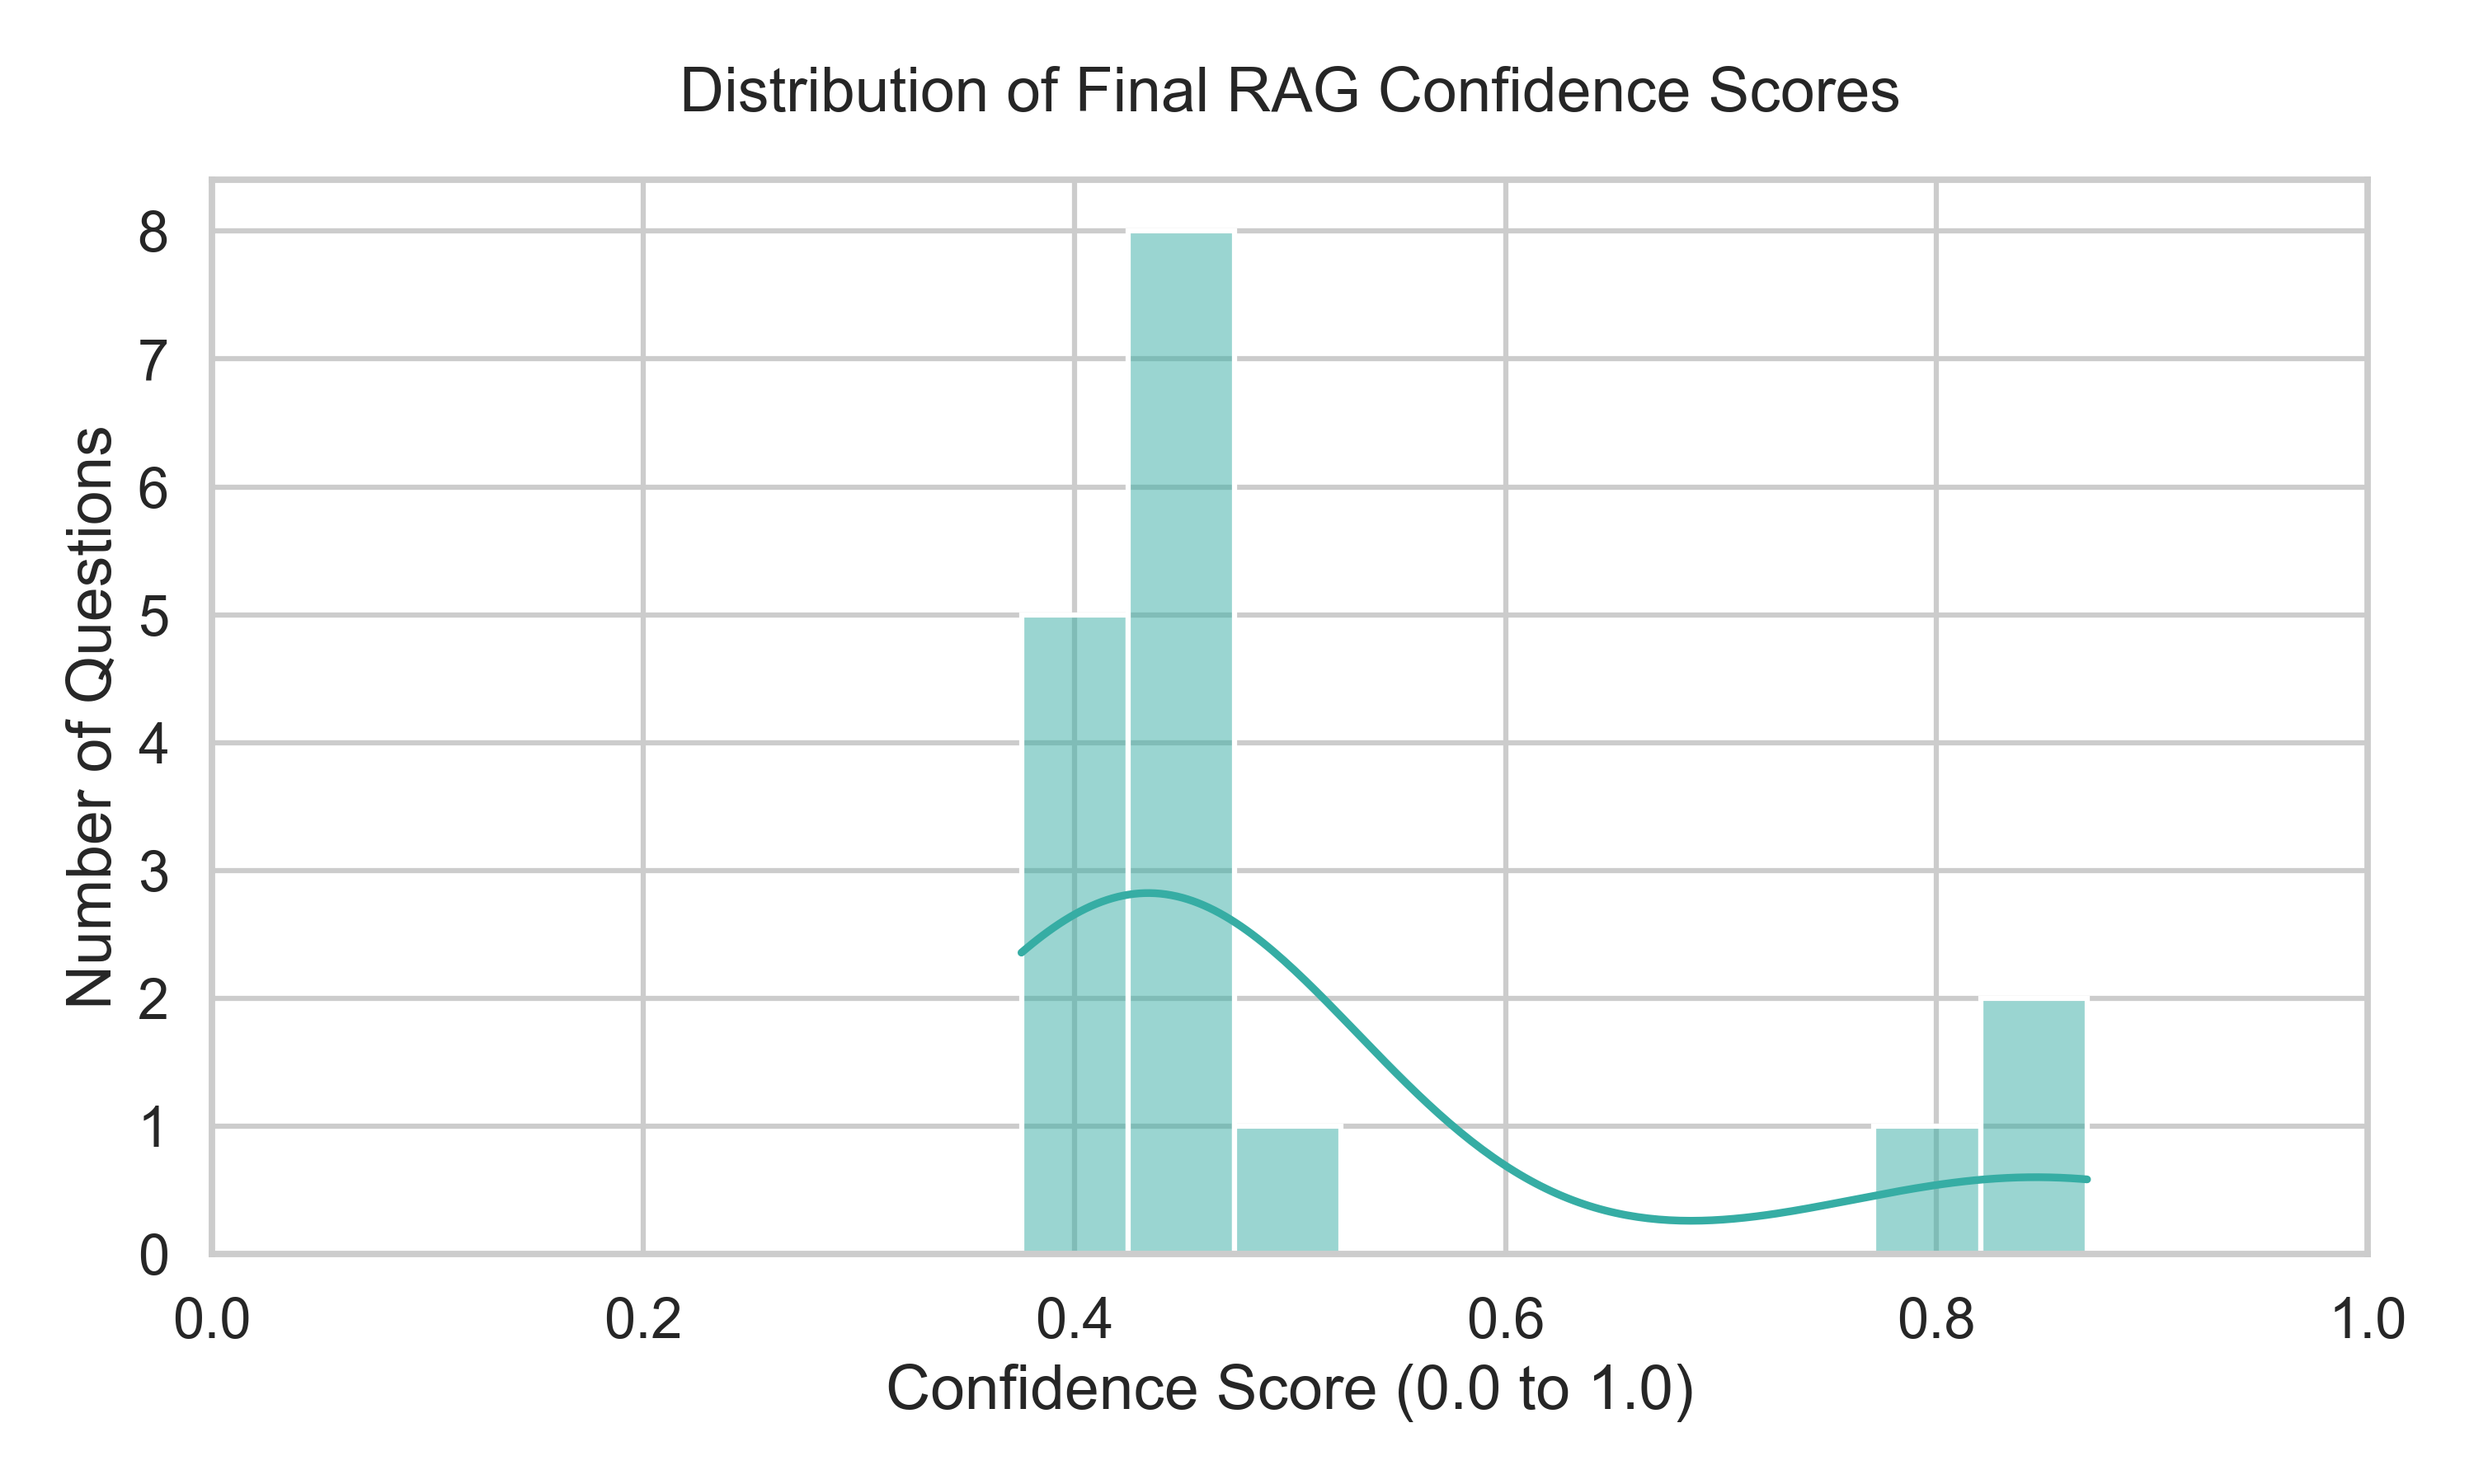
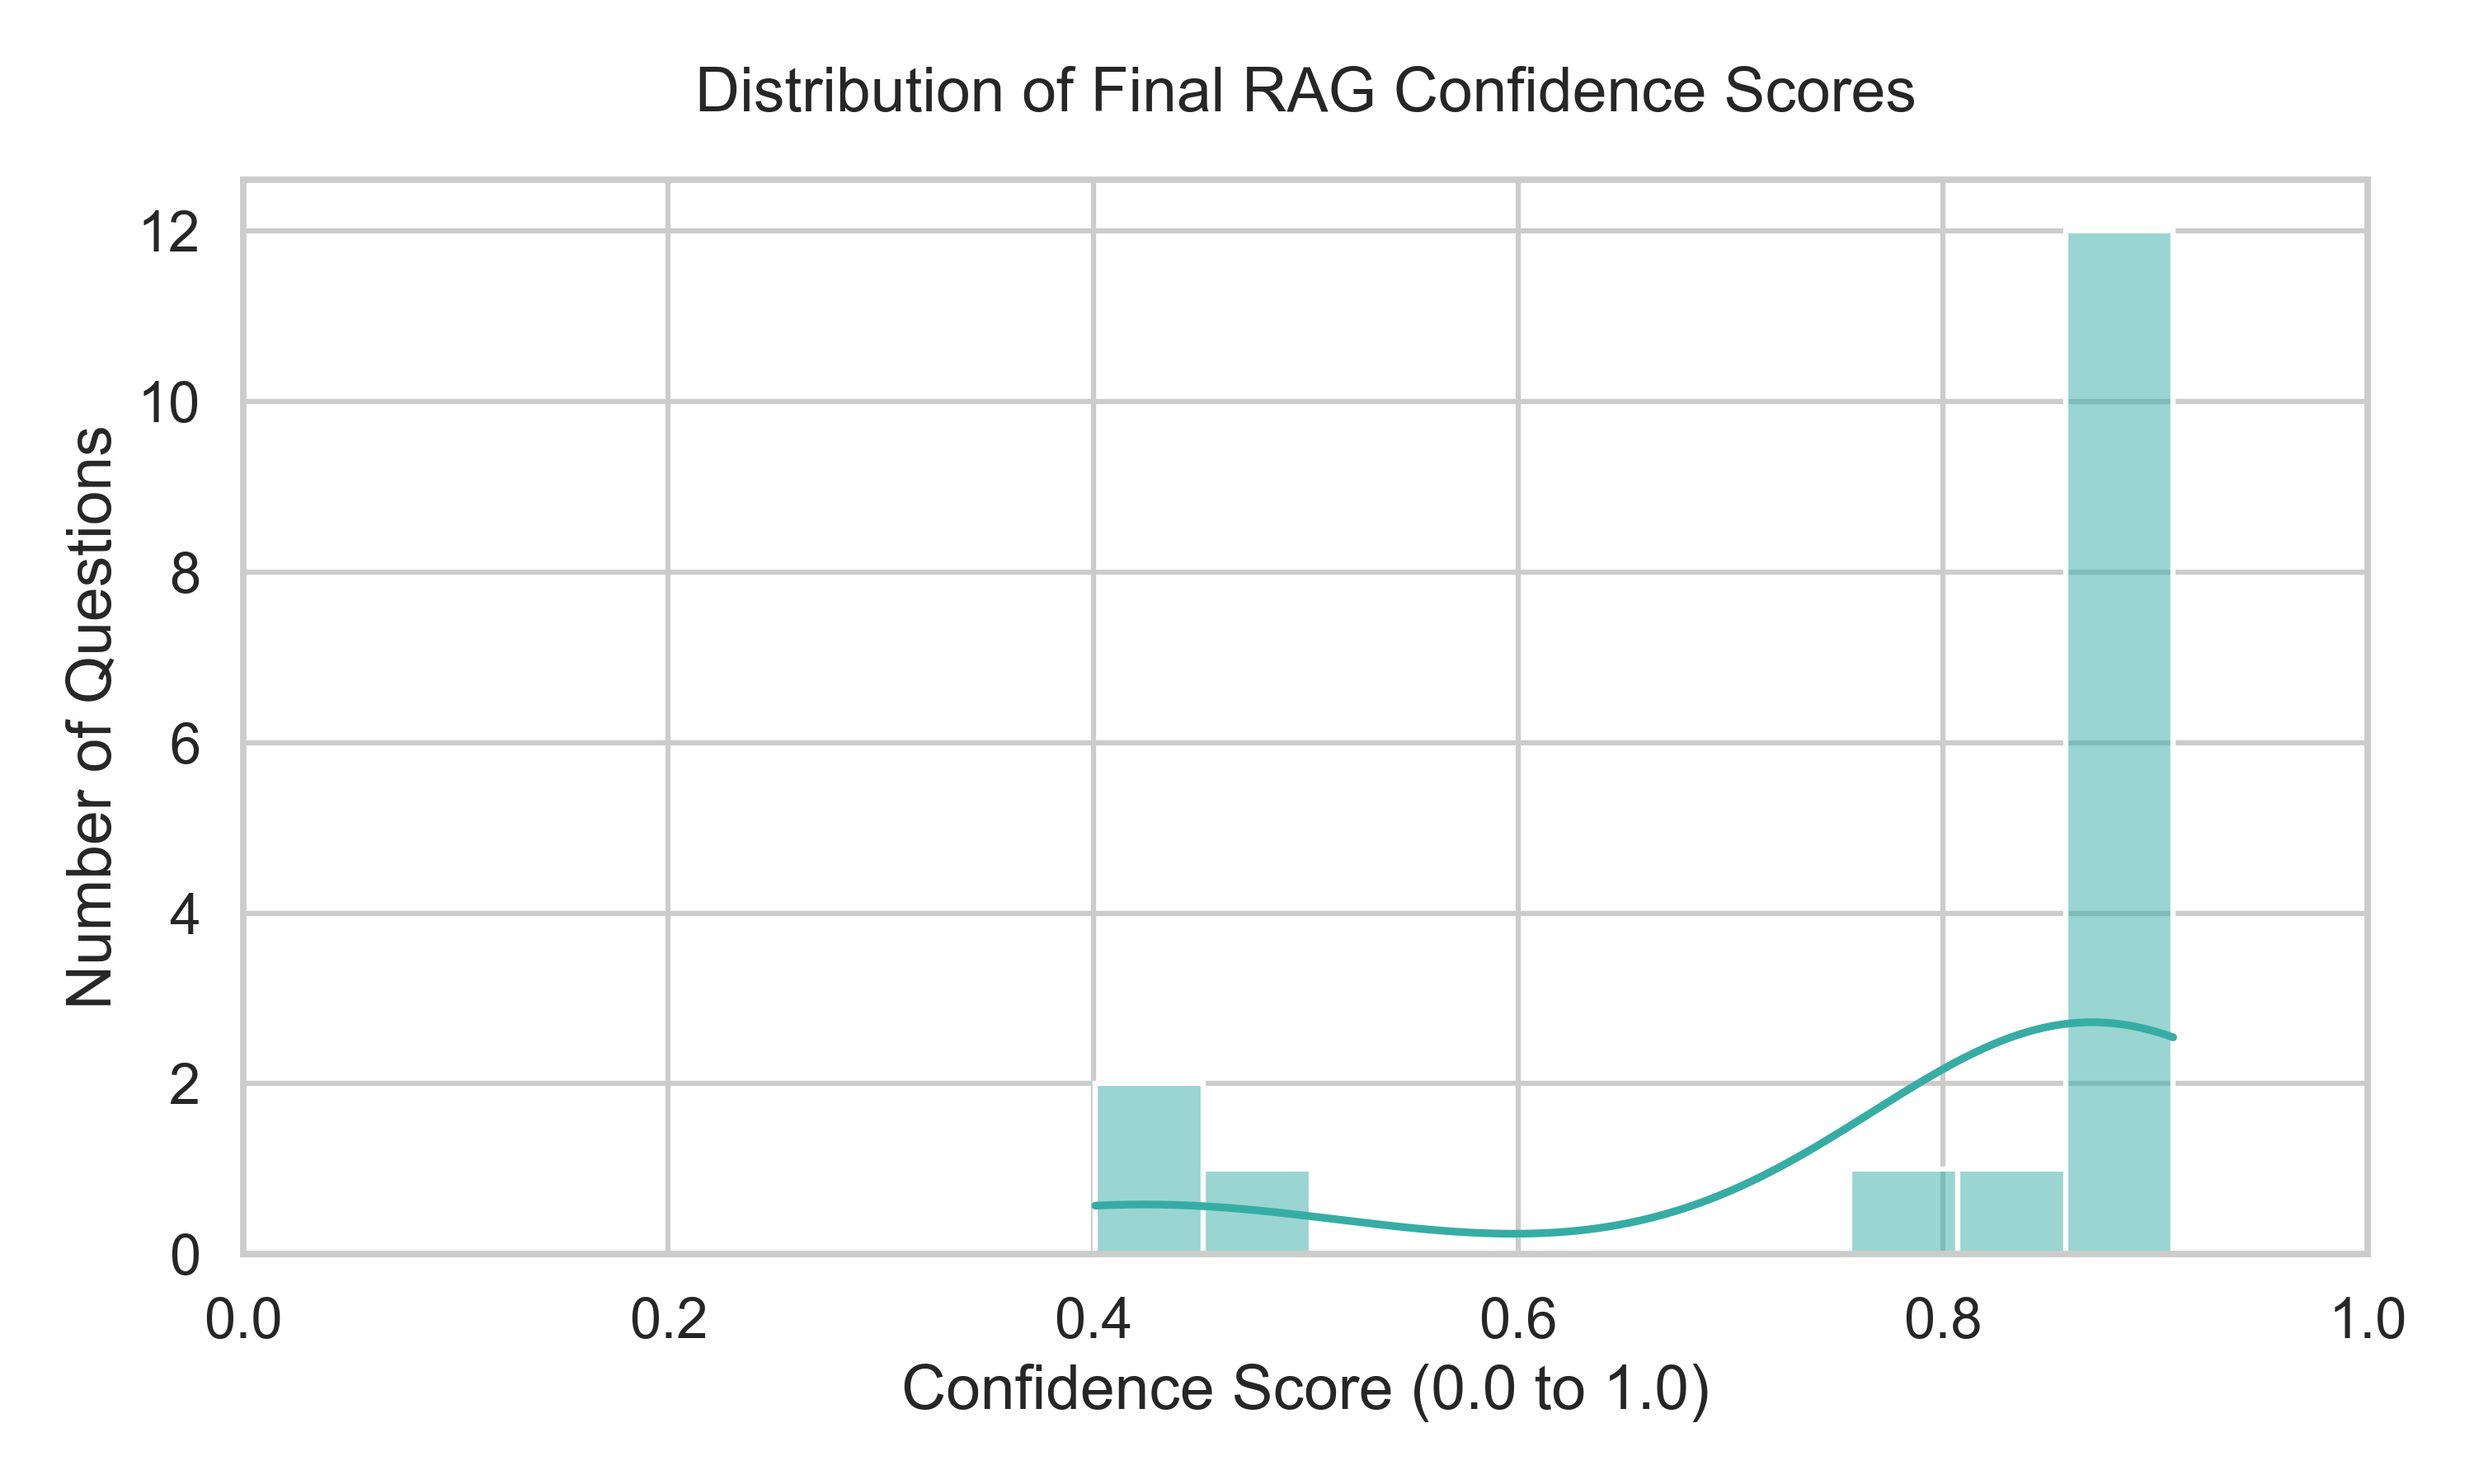
Best evaluation results

diff --git a/rag/nli_verifier.py b/rag/nli_verifier.py
@@ -1,21 +1,41 @@
 from sentence_transformers import CrossEncoder
+from transformers import AutoTokenizer
 
 _nli_model = None
+_nli_tokenizer = None
+
+# DeBERTa-v3-small: far better at scientific/technical text and logical reasoning
+NLI_MODEL_NAME = "cross-encoder/nli-deberta-v3-small"
+MAX_PREMISE_TOKENS = 400  # Reserve ~112 tokens for the hypothesis (answer sentence)
 
 def get_nli_model() -> CrossEncoder:
     global _nli_model
     if _nli_model is None:
-        print("[NLI] Loading NLI Verification model (cross-encoder/nli-distilroberta-base)...")
-        _nli_model = CrossEncoder('cross-encoder/nli-distilroberta-base', tokenizer_args={'use_fast': False})
-        
+        print(f"[NLI] Loading NLI Verification model ({NLI_MODEL_NAME})...")
+        _nli_model = CrossEncoder(NLI_MODEL_NAME, tokenizer_args={'use_fast': False})
     return _nli_model
 
+def get_nli_tokenizer():
+    global _nli_tokenizer
+    if _nli_tokenizer is None:
+        _nli_tokenizer = AutoTokenizer.from_pretrained(NLI_MODEL_NAME, use_fast=False)
+    return _nli_tokenizer
+
 import re
+
+def _truncate_premise(text: str, max_tokens: int = MAX_PREMISE_TOKENS) -> str:
+    """Truncate premise text to fit within the model's token budget."""
+    tokenizer = get_nli_tokenizer()
+    tokens = tokenizer.encode(text, add_special_tokens=False)
+    if len(tokens) <= max_tokens:
+        return text
+    truncated_tokens = tokens[:max_tokens]
+    return tokenizer.decode(truncated_tokens, skip_special_tokens=True)
 
 def verify_answer_nli(answer: str, chunks: list[dict]) -> dict:
     """
     Verifies if the generated answer is supported by the provided chunks using an NLI CrossEncoder.
-    Now uses multi-hop reasoning (aggregates top chunks) and sentence-by-sentence evaluation.
+    Uses multi-hop reasoning (aggregates top chunks) and sentence-by-sentence evaluation.
     Returns: {"verified": bool, "explanation": str}
     """
     if not chunks:
@@ -23,40 +43,39 @@ def verify_answer_nli(answer: str, chunks: list[dict]) -> dict:
         
     model = get_nli_model()
     
-    # --- Solution 3: Aggregate Context (Multi-Hop) ---
-    # Combine the top 3 chunks into a single premise
+    # --- Aggregate Context (Multi-Hop) ---
+    # Combine the top 3 chunks into a single premise, then truncate to fit token budget
     combined_premise = " ".join([c.get("text_content", "") for c in chunks[:3] if c.get("text_content")])
     if not combined_premise.strip():
         return {"verified": False, "explanation": "No valid text content found in retrieved chunks."}
+    combined_premise = _truncate_premise(combined_premise)
         
-    # --- Solution 2: Evaluate Sentence-by-Sentence ---
-    # Split the generated answer into individual sentences
+    # --- Evaluate Sentence-by-Sentence ---
     sentences = [s.strip() for s in re.split(r'(?<=[.!?])\s+', answer) if s.strip()]
     if not sentences:
-        sentences = [answer] # Fallback if splitting fails
+        sentences = [answer]
         
-    # Build batch pairs to evaluate all sentences at once, saving massive time
+    # Batch all sentence pairs for a single model.predict() call
     pairs = [(combined_premise, sent) for sent in sentences]
     scores_list = model.predict(pairs)
-        
+    
+    # DeBERTa-v3 NLI outputs: [entailment, neutral, contradiction] (different order from distilroberta!)
     explanations = []
-    has_contradiction = False
+    supported_sentences = 0
     
-    # Check entailment for each sentence individually
     for sent, scores in zip(sentences, scores_list):
-        contradiction = scores[0]
-        entailment = scores[1]
-        neutral = scores[2]
+        entailment    = scores[0]  # DeBERTa: index 0 = entailment
+        neutral       = scores[1]  # DeBERTa: index 1 = neutral
+        contradiction = scores[2]  # DeBERTa: index 2 = contradiction
         
-        # Log explanation for each sentence
-        explanations.append(f"[{sent[:25]}...] E:{entailment:.2f} C:{contradiction:.2f}")
+        explanations.append(f"[{sent[:30]}...] E:{entailment:.2f} C:{contradiction:.2f} N:{neutral:.2f}")
         
-        # If any sentence is contradicted by the premise, fail the whole answer
-        if contradiction > entailment:
-            has_contradiction = True
-    
-    # Verified only if NO sentences contradict the text
-    verified = not has_contradiction
+        # Sentence is grounded if entailment beats contradiction
+        if entailment > contradiction:
+            supported_sentences += 1
+            
+    # Verified if the majority of sentences are grounded in the text
+    verified = (supported_sentences / len(sentences)) >= 0.5
     
     return {
         "verified": verified,

diff --git a/rag/pipeline.py b/rag/pipeline.py
@@ -17,9 +17,9 @@ from rag.retriever      import retrieve_chunks
 from rag.prompt_builder import (
     build_answer_prompt,
     build_justification_prompt,
+    build_verifier_prompt,
 )
-from rag.generator  import generate_answer, generate_justification
-from rag.nli_verifier import verify_answer_nli
+from rag.generator  import generate_answer, generate_justification, verify_answer_llm
 from rag.confidence import compute_confidence
 from Classification.classify_and_extract import classify_question
 
@@ -97,22 +97,41 @@ def run_pipeline(
     top_chapter = top_chunk.get("chapter", "Unknown Chapter")
     top_section = top_chunk.get("section_title", "Unknown Topic")
 
-    # ── Step 2: Build prompts ───────────────────────────────────────────────
-    print("[Pipeline] Step 2: Building prompts...")
-    answer_msgs      = build_answer_prompt(question, top_chapter, top_section, chunks)
+    # ── Step 3: Generate answer + justification in a single Groq call ──────
+    print("[Pipeline] Step 3: Generating answer + justification via Groq...")
+    answer_msgs = build_answer_prompt(question, top_chapter, top_section, chunks)
+    # Append instruction to also include justification in the same response
+    answer_msgs[-1]["content"] += (
+        "\n\nAfter the answer, on a new line write '---JUSTIFICATION---' "
+        "and then provide a numbered step-by-step biological justification "
+        "for why the answer is correct, citing only the NCERT context above."
+    )
+    raw_response = generate_answer(answer_msgs)
     
-    # ── Step 3: Generate answer ─────────────────────────────────────────────
-    print("[Pipeline] Step 3: Generating answer via Groq...")
-    answer = generate_answer(answer_msgs)
+    # Parse answer and justification apart
+    if "---JUSTIFICATION---" in raw_response:
+        parts = raw_response.split("---JUSTIFICATION---", 1)
+        answer = parts[0].strip()
+        just_raw = parts[1].strip()
+    else:
+        answer = raw_response.strip()
+        just_raw = ""
+    
+    # Parse justification into numbered steps
+    if just_raw:
+        lines = just_raw.strip().split("\n")
+        justification = [l.strip() for l in lines if l.strip() and (
+            l.strip()[0].isdigit() or l.strip().lower().startswith("step")
+        )]
+        if not justification:
+            justification = [l.strip() for l in lines if l.strip()]
+    else:
+        justification = []
 
-    # ── Step 4: Generate justification ──────────────────────────────────────
-    print("[Pipeline] Step 4: Generating justification via Groq...")
-    just_msgs     = build_justification_prompt(question, answer, chunks)
-    justification = generate_justification(just_msgs)
-
-    # ── Step 5: Verify answer (Local NLI) ───────────────────────────────────
-    print("[Pipeline] Step 5: Verifying answer via NLI CrossEncoder...")
-    verif_result    = verify_answer_nli(answer, chunks)
+    # ── Step 5: Verify answer (LLM Judge) ───────────────────────────────────
+    print("[Pipeline] Step 5: Verifying answer via LLM Judge...")
+    verif_msgs      = build_verifier_prompt(question, answer, chunks)
+    verif_result    = verify_answer_llm(verif_msgs)
     verified        = verif_result["verified"]
     verifier_note   = verif_result["explanation"]
 

diff --git a/rag/generator.py b/rag/generator.py
@@ -57,7 +57,7 @@ def generate_answer(messages: list[dict]) -> str:
     Calls the Groq LLM to generate the main answer.
     Uses low temperature (0.2) for factual consistency.
     """
-    return call_groq(messages, temperature=0.2, max_tokens=512)
+    return call_groq(messages, temperature=0.2, max_tokens=768)
 
 
 def generate_justification(messages: list[dict]) -> list[str]:
@@ -75,4 +75,22 @@ def generate_justification(messages: list[dict]) -> list[str]:
 
     # Fallback: if no numbered lines, return original text split by newlines
     return steps if steps else [l.strip() for l in lines if l.strip()]
+
+def verify_answer_llm(messages: list[dict]) -> dict:
+    """
+    Calls Groq to act as a Faithfulness/NLI judge.
+    Expects the prompt to dictate a YES/NO verdict followed by an explanation.
+    """
+    raw = call_groq(messages, temperature=0.1, max_tokens=150)
+    lines = raw.strip().split("\n")
+    
+    first_line = lines[0].strip().upper()
+    verified = "YES" in first_line and "NO" not in first_line
+    
+    explanation = " ".join(lines[1:]).strip() if len(lines) > 1 else first_line
+    
+    return {
+        "verified": verified,
+        "explanation": f"LLM Judge: {explanation}"
+    }
 
